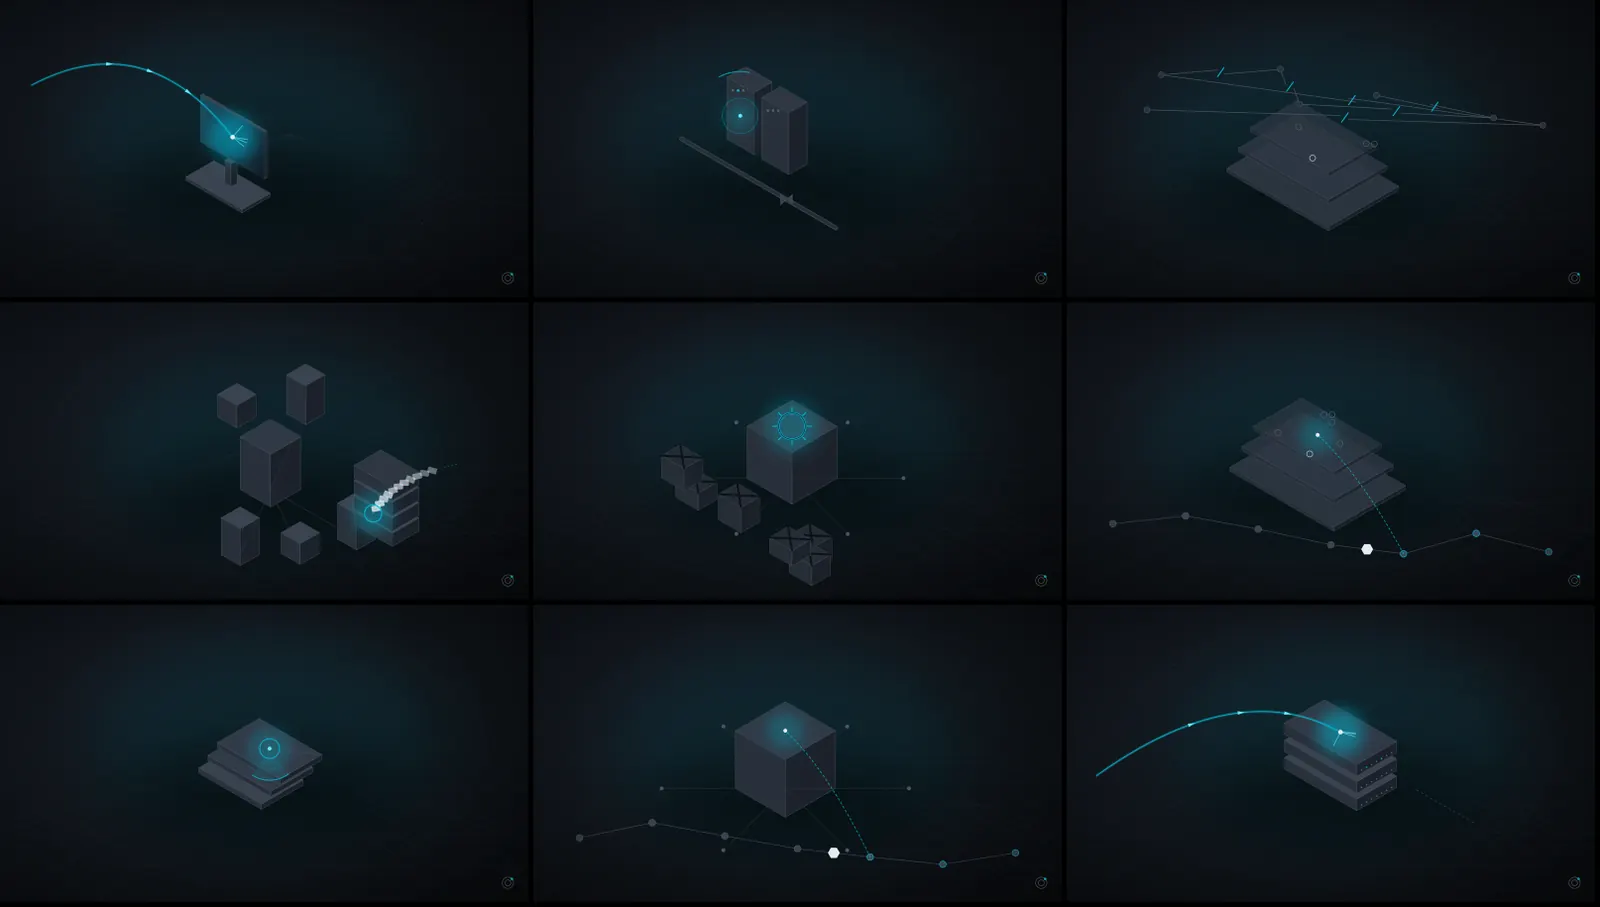
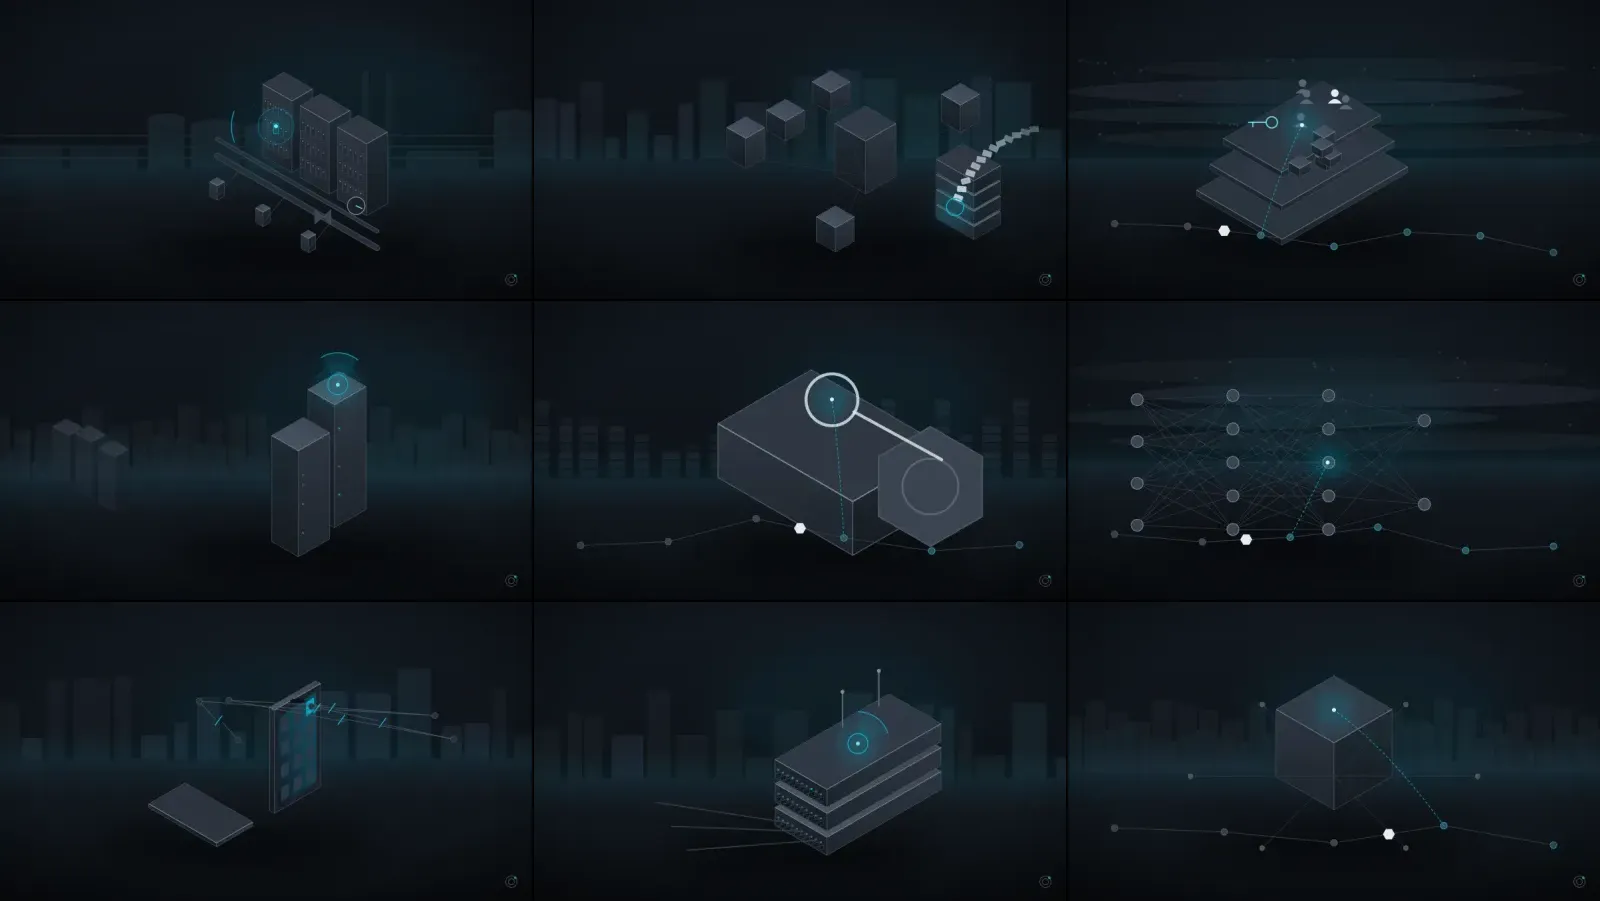
docs: illustration review (24 stories), typography and menu evidence

diff --git a/docs/media/VISUAL_REVIEW.md b/docs/media/VISUAL_REVIEW.md
@@ -1,0 +1,113 @@
+# Illustration review: renderer v2 (`cax-svg-2`)
+
+All illustrations are **programmatic SVG** (`generation_method=svg`). They are
+not produced by an AI image model. ComfyUI is not running on the production
+host (audit on 5 Nov 2026: 131 of 131 production assets were `svg` /
+`cax-svg-1`; nothing listens on its port).
+
+## What changed
+
+| v1 (`cax-svg-1`) | v2 (`cax-svg-2`) |
+|---|---|
+| Fixed small scale, subject floating in empty space | The scene is measured and fitted to fill 50–60% of the frame width (or 56–64% of its height) |
+| The same perspective grid behind every image | A blurred far layer per technology family: datacenter rows, city network, industrial plant, cloud strata, finance towers |
+| One scene only | The story's second technology appears as a dimmed, out-of-focus mid layer |
+| Flat single-colour faces | Lit gradient materials, rim-lit edges, a contact shadow and a floor |
+| Same camera for every story | Six seeded camera presets (placement, mirroring) and zoom |
+| Large cyan glows | Glow reduced to 60% of its previous strength; light marks the subject |
+| Sparse objects | Phones with app tiles, workstations with keyboard and tower, browser pages with layout blocks, edge appliances with port banks, PLC cabinets with DIN modules, a gauge and sensors, cloud layers with identities and an access key, a payment terminal with a card |
+
+The event overlays (attack path only when exploitation is confirmed, records
+leaving only when exposure is confirmed, and so on) and the sanitizer are
+unchanged. Rendering takes about 0.04 s per image.
+
+## Measured on 24 real stories (EN and UA)
+
+"Visible content" is the share of the frame that is not near-black
+background (luminance > 38/255, measured at 400×225). It is a proxy for
+empty space, not for quality.
+
+- Median visible content: **4.4% → 11.2%**. The lowest image went from 1.5% to 7.7%.
+- All 24 compositions are distinct (alt text and framing). No asset is
+  shared between stories (the dry-run checks this).
+- Website payload per image: article 15 KB WebP / 10 KB AVIF, thumbnail
+  6 KB. The Telegram PNG went from 168 KB to 105 KB.
+
+Before (left) and after (right), 12 pairs per sheet:
+
+![Review sheet 1](../assets/illustrations-review-1.webp)
+![Review sheet 2](../assets/illustrations-review-2.webp)
+
+| # | Story | Category | Lang | Type | Visible content | Now shows |
+|---|---|---|---|---|---|---|
+| 1 | APT29-Linked Hackers Hijack Web Analytics Script to Deliver iOS and Android Exploits | exploit | EN | svg (cax-svg-2) | 1.9% → 14.8% | a tampered third-party script spreading from a website to visitors' devices, with a web server and a site. |
+| 2 | Cyberattack disrupts blood storage refrigeration systems in France | other | EN | svg (cax-svg-2) | 4% → 8.7% | an analytical cross-section of the mechanism, with industrial control equipment. |
+| 3 | UK school estate hit by 3AM ransomware in suspected AI-assisted attack | ransomware | EN | svg (cax-svg-2) | 6.4% → 10.1% | systems sealed by ransomware. |
+| 4 | росія атакувала Україну «шахедами-агітаторами», що несли листівки з QR-кодами та закликами «зупинити свавілля ТЦК» | phishing | UA | svg (cax-svg-2) | 4.9% → 11.2% | a deceptive message leading to a counterfeit gateway, with a home computer and phone. |
+| 5 | DreamHost confirms data breach exposed FTP logins and webmail sessions | breach | EN | svg (cax-svg-2) | 8.3% → 10.7% | records leaving a breached archive, with a corporate network. |
+| 6 | Злам застосунку "Повітряна тривога": робота поступово відновлюється після відключення | breach | UA | svg (cax-svg-2) | 4.4% → 10% | records leaving a breached archive, with a smartphone. |
+| 7 | Vercel rolls out new protection against stolen session cookie attacks | malware | EN | svg (cax-svg-2) | 8.8% → 13% | a foreign component moving through the delivery chain, with cloud accounts and identity layers. |
+| 8 | GhostMap Android flaw lets malicious app trigger persistent boot loop | vulnerability | EN | svg (cax-svg-2) | 1.9% → 9.6% | an exposed weak point, no attack shown, with a smartphone. |
+| 9 | Zyxel fixes zero-day exploited to hack nearly 1,000 network switches | vulnerability | EN | svg (cax-svg-2) | 5.6% → 12.2% | attack path entering an exposed component, with network edge appliances. |
+| 10 | OpenAI AI Pipeline Generates 948 Linux Root Escalation Exploits in 30-Hour Run | vulnerability | EN | svg (cax-svg-2) | 5.1% → 10.3% | an exposed weak point, no attack shown, with server racks. |
+| 11 | CISA says max severity GitLab flaw now exploited in the wild | vulnerability | EN | svg (cax-svg-2) | 5% → 9.5% | attack path entering an exposed component, with a software build pipeline. |
+| 12 | Fintech platform Sageworks taken offline after suspected cyberattack | other | EN | svg (cax-svg-2) | 3.2% → 12.5% | an analytical cross-section of the mechanism, with a payment flow. |
+| 13 | NIKKE PC game launcher hacked to spread remote access, data-stealing malware | malware | EN | svg (cax-svg-2) | 3.8% → 19.5% | a foreign component moving through the delivery chain, with a cryptocurrency wallet. |
+| 14 | The SOC Files 5: Ghost in the pipeline, or a fileless SharePoint breach by Storm-2603 | exploit | EN | svg (cax-svg-2) | 4% → 17.5% | an exposed weak point, no attack shown, with an email and collaboration system. |
+| 15 | Полювання на токени: нові віруси-інфостілери викрадають акаунти ChatGPT, Claude та Copilot | malware | UA | svg (cax-svg-2) | 1.5% → 7.7% | a foreign component moving through the delivery chain, with an AI model network. |
+| 16 | Police seizes over 100 servers in investment scam crackdown | scam | EN | svg (cax-svg-2) | 4.3% → 13.9% | dismantled attacker infrastructure, with a home computer and phone. |
+| 17 | Hackers Exploit Patched Apple Flaw to Deliver Info-Stealing Malware, CISA Says | vulnerability | EN | svg (cax-svg-2) | 4% → 12.3% | attack path entering an exposed component, with a desktop computer. |
+| 18 | Tech Firms Dismantle Botnet That Turned 1.3M TV Boxes Into Proxies | botnet | EN | svg (cax-svg-2) | 2% → 9.3% | dismantled attacker infrastructure, with a smartphone. |
+| 19 | Google Warns LLMjacking Attacks Are Costing Some Enterprises Up to $1 Million in Cloud Charges | phishing | EN | svg (cax-svg-2) | 9.3% → 18% | a deceptive message leading to a counterfeit gateway, with cloud accounts and identity layers. |
+| 20 | Один хакер за допомогою мережі з 12 ШІ-агентів атакував об'єкти в 11 країнах світу | other | UA | svg (cax-svg-2) | 3.7% → 8.4% | an analytical cross-section of the mechanism. |
+| 21 | SonicWall Won't Patch EoL GMS Flaws That Could Expose Files, Alter Database Records | vulnerability | EN | svg (cax-svg-2) | 5.4% → 11% | an exposed weak point, no attack shown, with network edge appliances. |
+| 22 | Google Calendar phishing campaign hijacks sessions, bypasses MFA | phishing | EN | svg (cax-svg-2) | 9.2% → 13.7% | dismantled attacker infrastructure, with cloud accounts and identity layers. |
+| 23 | Binance розкрила, як хакери проникли в систему через фальшиві співбесіди та AI-інструмент | other | UA | svg (cax-svg-2) | 3% → 19.1% | an analytical cross-section of the mechanism, with a cryptocurrency wallet. |
+| 24 | Hackers hijack cPGuard autoupdate to deploy backdoor, steal data | malware | EN | svg (cax-svg-2) | 4.6% → 8.6% | a foreign component moving through the delivery chain. |
+
+## Limits
+
+- This is still an isometric, programmatic style, not cinematic 3D
+  rendering. Detail is higher, but some overlays, such as the malware
+  delivery chain, still look alike across stories of the same category.
+- "Visible content" counts pixels. Whether a reader recognises the subject
+  without the title was judged by eye on these sheets, not measured.
+
+## Rollout
+
+`tools.media backfill` (dry-run) on a copy of production data:
+- 130 public stories;
+- 129 to replace because of the renderer upgrade (`cax-svg-1 -> cax-svg-2`)
+  and 1 with no image yet;
+- 0 assets shared between stories;
+- about 6.5 CPU seconds and about 1.4 MB of disk, cost 0.
+
+On a staging copy, all 130 were regenerated in 4.9 s at 97 MB peak memory.
+After deployment the hourly media pass replaces 25 per run. Run
+`tools.media backfill --batch 130` to replace them all at once. Asset ids,
+and so article and Telegram associations, do not change; only the file does.
+
+## Typography and mobile navigation (same PR)
+
+**Clipped descenders.** The article headline used the `reveal` animation,
+whose last keyframe was `clip-path: inset(0)` with `animation-fill-mode:
+both`. The clip stayed applied after the animation and cut everything below
+the line boxes: g, y, у, р, ф on the last line, at line-height 1.12. The clip
+box now extends past the glyphs, and the animation no longer persists
+(`backwards`). The e2e test `typography-nav.spec.ts` checks EN and UA titles
+ending in descenders at 375, 390, 430, 768, 1280, 1440 and 1920 px. It
+fails against the old CSS with `clip-path inset(0px 0px 0%)` and passes
+with the fix.
+
+![Headline at 390 px, before (top) and after](../assets/review-title-descenders.webp)
+
+**Mobile menu.** The "Меню / Закрити" text became a 44×44 hamburger that
+turns into an X. Its labels are «Відкрити/Закрити меню навігації» and "Open/Close
+navigation menu". It opens a full-height graphite panel below the header:
+- page scrolling is locked;
+- focus moves into the panel;
+- Escape and every link close it, and focus returns to the button.
+
+Items and order are unchanged.
+
+![Mobile header and menu: before closed, after closed, before open, after open](../assets/review-mobile-menu.webp)

diff --git a/docs/media/IMAGE_GENERATION.md b/docs/media/IMAGE_GENERATION.md
@@ -40,7 +40,8 @@ current host enables it.
 
 ## 2. The working generator: server-side SVG
 
-`cyberalertx/media/svg_art.py` draws one 1600×900 editorial illustration
+`cyberalertx/media/svg_art.py` (renderer `cax-svg-2`, see
+[VISUAL_REVIEW.md](VISUAL_REVIEW.md)) draws one 1600×900 editorial illustration
 per story. It needs no model, network or GPU. [measured] All 135 public
 stories took 5.9 s on the production host's data copy, with a peak RSS of
 100 MB, using 1.8 MB of disk in total.
@@ -92,7 +93,7 @@ Telegram (10x/day) ->  posts only stories whose illustration exists; others wait
 - **Metadata per asset:**
   - asset id and story key;
   - `generation_method` (`svg` or `comfyui`) and model or renderer version
-    (`cax-svg-1`);
+    (`cax-svg-2`);
   - prompt/brief version (`illus-2`) and brief hash;
   - SHA-256 storage key, width, height and size;
   - alt text in EN and UA;

diff --git a/docs/README.md b/docs/README.md
@@ -11,6 +11,7 @@ marked as such at the top.
 |---|---|
 | [architecture.md](architecture.md) | Components, data flow, storage model, deployment model |
 | [operations/OPERATIONS.md](operations/OPERATIONS.md) | Release layout, build / switch / rollback, backups, consistency model, publishing hold, recovery |
+| [media/VISUAL_REVIEW.md](media/VISUAL_REVIEW.md) | Illustration renderer v2: before/after review of 24 stories |
 | [media/IMAGE_GENERATION.md](media/IMAGE_GENERATION.md) | Article illustrations: host findings, SVG generator, ComfyUI status, backfill |
 | [release/OPEN_ISSUES.md](release/OPEN_ISSUES.md) | Register of open and resolved issues |
 | [release/O28_RECONCILIATION_RUNBOOK.md](release/O28_RECONCILIATION_RUNBOOK.md) | JSON → Postgres re-sync procedure |
